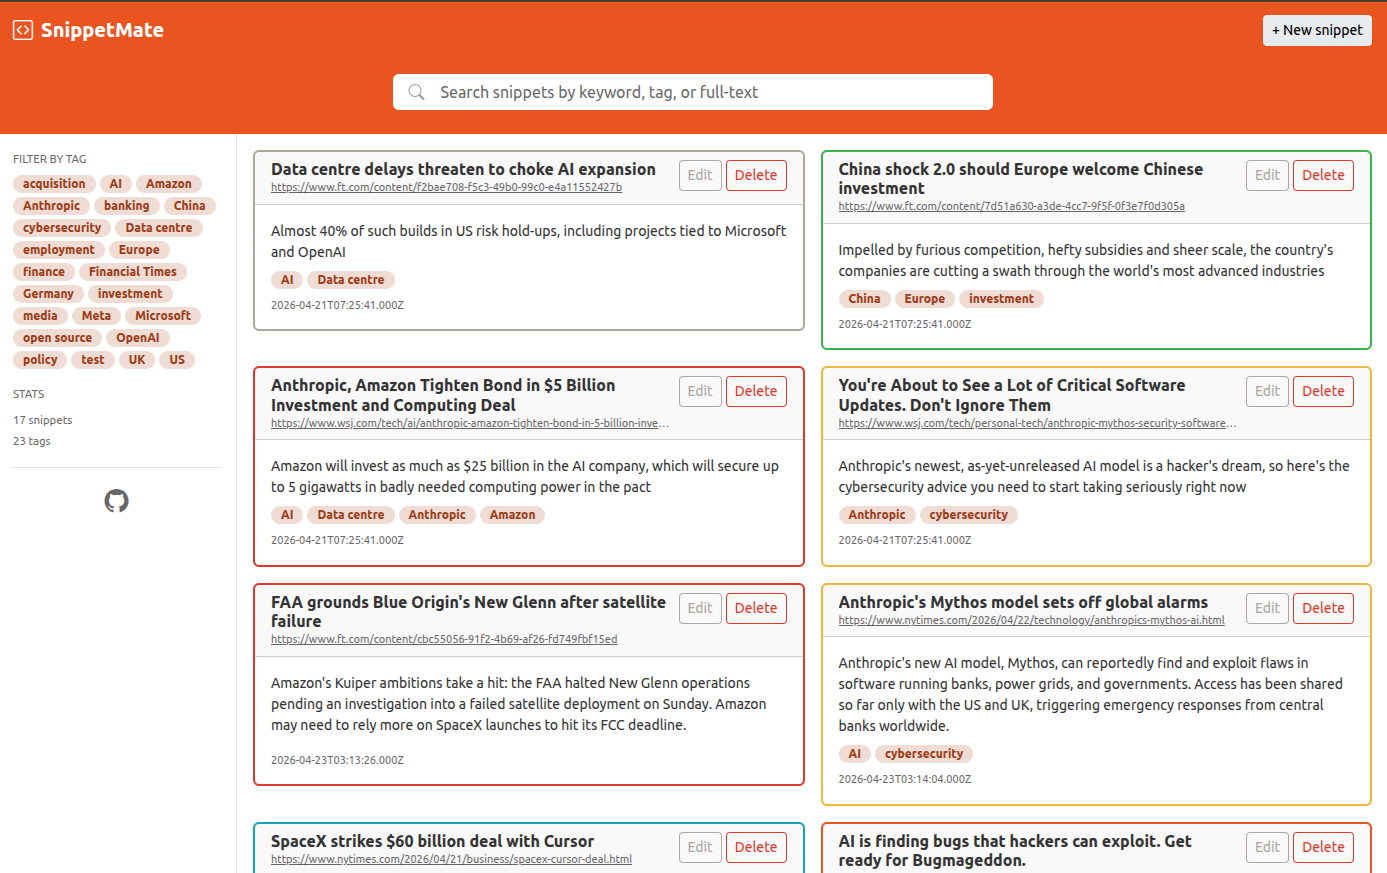
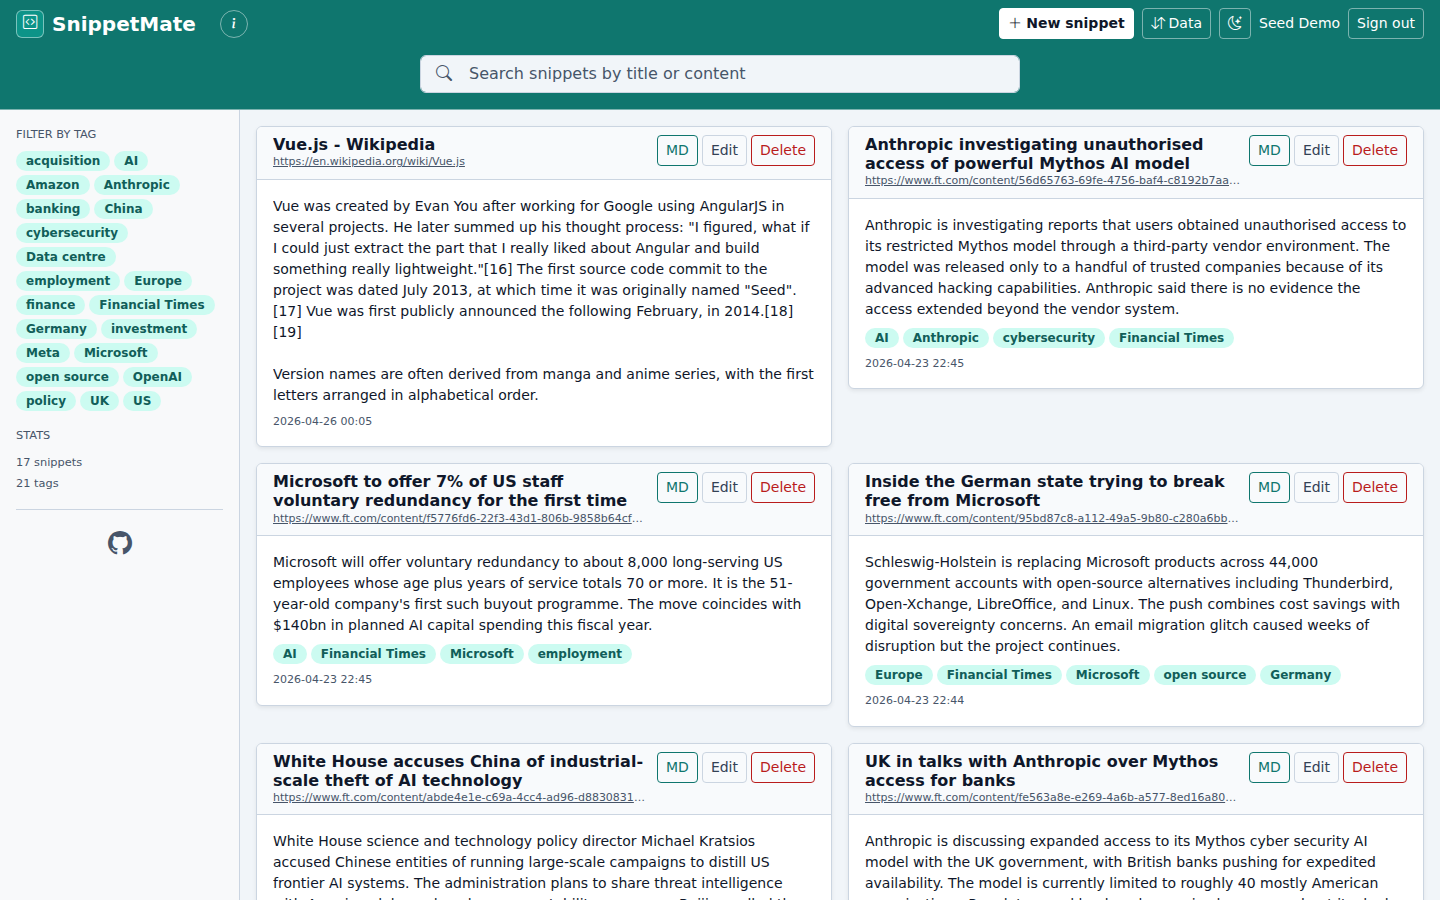
docs: add CHANGELOG.md, update README, AGENTS.md, and refresh screenshot

diff --git a/README.md b/README.md
@@ -12,9 +12,9 @@ Your "SnippetMate" lives in your browser while you're reading the news, browsing
 
 ## Tech Stack
 
-- **Frontend:** Vue 3 + Vite + Bootstrap 5 (with the Bootswatch "United" theme) + SweetAlert2 (pop-ups) + Firebase Web SDK (Google sign-in)
+- **Frontend:** Vue 3 + Vite + Bootstrap 5.3 (custom teal light/dark theme) + SweetAlert2 (pop-ups) + Firebase Web SDK (Google sign-in)
 - **Backend:** Node.js + Express, with `firebase-admin` verifying a Google ID token on every data request
-- **Database:** MySQL 8 (FULLTEXT index on title and content, a many-to-many snippet–tag schema, and per-user ownership)
+- **Database:** MySQL 8 (many-to-many snippet–tag schema and per-user ownership)
 
 No external **data** APIs are used. Firebase is used only for authentication (Google sign-in).
 
@@ -24,7 +24,7 @@ No external **data** APIs are used. Firebase is used only for authentication (Go
 
 These are the two required dynamic aspects (front-end JavaScript talking to the back-end):
 
-1. **CRUD with search and tag filtering** — Create, Read, Update and Delete snippets, with full-text search across the title and content, plus a tag-based sidebar filter.
+1. **CRUD with search and tag filtering** — Create, Read, Update and Delete snippets, with keyword search across title and content, plus a tag-based sidebar filter (and horizontal tag bar on mobile).
 2. **Server-side URL title fetching** — You paste a source URL, then (optionally) click *Fetch title*, and the back-end retrieves the page title and fills it into the form.
 
 ### Additional features
@@ -32,6 +32,7 @@ These are the two required dynamic aspects (front-end JavaScript talking to the 
 - **Google sign-in & multi-user isolation** — Firebase Authentication; every snippet and tag query is scoped to the signed-in user.
 - **Markdown export** — export a single snippet or the whole collection as Markdown.
 - **JSON import / export** *(new in v2.1.0)* — a canonical JSON round-trip for backup and restore, with duplicate-skipping and tag reconciliation on import.
+- **Teal light & dark mode** — follows `prefers-color-scheme` by default with a navbar theme toggle persisted in `localStorage`.
 
 ## Import / Export JSON format
 
@@ -65,10 +66,11 @@ Rules the importer enforces:
 ```
 SnippetMate/
 ├── backend/            Node.js + Express API
+│   ├── lib/            safe-fetch.js (SSRF guard), validate.js (input checks)
+│   ├── middleware/     auth.js — verifies the Firebase ID token, scopes by user
 │   ├── routes/         /api/health, /api/snippets (incl. /import + /export),
 │   │                   /api/tags, /api/fetch-title
-│   ├── middleware/     auth.js — verifies the Firebase ID token, scopes by user
-│   ├── test/           Integration tests using node:test + supertest
+│   ├── test/           Integration and unit tests (node:test + supertest)
 │   ├── db.js           MySQL connection pool (mysql2/promise)
 │   ├── firebase.js     Firebase Admin SDK init (loads the service-account key)
 │   ├── server.js       Express entry point
@@ -78,10 +80,12 @@ SnippetMate/
 │   └── seed.sql        Optional sample data, owned by a demo user
 └── frontend/           Vue 3 + Vite single-page app
     └── src/
-        ├── components/   NavBar, SearchBar, TagSidebar, SnippetList,
-        │                 SnippetCard, SnippetFormModal
-        ├── services/     api.js (axios wrapper; attaches the auth token)
-        ├── firebase.js   Firebase Web SDK init (reads VITE_FIREBASE_* env vars)
+        ├── assets/       theme.css (teal light/dark Bootstrap 5 tokens)
+        ├── components/   NavBar, AboutModal, SearchBar, TagSidebar,
+        │                 SnippetList, SnippetCard, SnippetFormModal
+        ├── composables/  useAuth.js (Firebase Auth state)
+        ├── services/     api.js (axios wrapper), firebase.js (Web SDK init)
+        ├── utils/        markdown.js, safety.js, swal.js, theme.js (+ tests)
         ├── App.vue
         └── main.js
 ```
@@ -207,11 +211,18 @@ cd backend
 npm test
 ```
 
+Frontend unit tests (`src/utils/*.test.js`) run with Node's built-in test runner:
+
+```bash
+cd frontend
+npm test
+```
+
 The API tests write to and delete from the MySQL database configured in `.env`, so they refuse to run unless `DB_NAME` ends in `_test`. Point `.env` (or the environment) at a separate test database first; never run them against the production database. The `fetch-title` tests need no database: `NODE_ENV=test node --test test/fetch-title.test.js`.
 
 ## Deployment
 
-The live instance runs at **[snippetmate.com](https://snippetmate.com)** on a Linux host: the built Vue SPA is served by nginx, the Express backend runs as a managed process behind an nginx reverse proxy, and MySQL runs locally. Cloudflare fronts TLS and DNS. Remember to add your production domain to **Firebase → Authentication → Settings → Authorized domains**, or Google sign-in is rejected with `auth/unauthorized-domain`.
+The live instance runs at **[www.snippetmate.com](https://www.snippetmate.com)** on a Linux host: the built Vue SPA is served by nginx, the Express backend runs as a managed process behind an nginx reverse proxy, and MySQL runs locally. Cloudflare fronts TLS and DNS. Remember to add your production domain to **Firebase → Authentication → Settings → Authorized domains**, or Google sign-in is rejected with `auth/unauthorized-domain`.
 
 ## Course Information
 

diff --git a/CHANGELOG.md b/CHANGELOG.md
@@ -1,0 +1,58 @@
+# Changelog
+
+All notable changes to SnippetMate are documented in this file.
+
+The format is based on [Keep a Changelog](https://keepachangelog.com/en/1.1.0/), and this project adheres to [Semantic Versioning](https://semver.org/spec/v2.0.0.html).
+
+## [2.2.0] - Unreleased
+
+### Added
+- Teal colourway matching sibling apps (`#0f766e` accent, `#0d9488` brand tile, slate neutrals) in `frontend/src/assets/theme.css`.
+- Light and dark mode following `prefers-color-scheme`, persisted in `localStorage` with a pre-paint inline script in `frontend/index.html` and a NavBar/sign-in theme toggle (`frontend/src/utils/theme.js` + unit tests).
+- Sibling-style signed-out hero screen with logo tile, feature summary, GitHub link, and version footer.
+- Responsive mobile tag filter strip (`< md`) and consolidated `Data` export/import dropdown menu in `NavBar`.
+- Explicit backend error banner with retry button on load failures, plus distinct empty vs zero-match filter messaging.
+- E2E build-mode auth seam (`vite build --mode e2e`) and CI check verifying production builds exclude it.
+- `CHANGELOG.md` with release history from v2.0.0 onward.
+
+### Changed
+- Dropped Bootswatch "United" (eliminating third-party Google Fonts requests and 56 WCAG AA contrast violations) in favour of plain Bootstrap 5.3 CSS + `theme.css`.
+- Replaced duplicate Bootstrap UMD JS bundle (`bootstrap.bundle.min.js`) with direct `bootstrap/js/dist/modal` imports and removed direct `@popperjs/core` dependency (~130 kB smaller JS bundle).
+- Replaced `nodemon` with Node's built-in `node --watch server.js` in `backend/package.json` (0 audit vulnerabilities across all deps).
+- Updated SweetAlert2 dialogs via shared `frontend/src/utils/swal.js` helper to match the teal accent and light/dark themes.
+- Replaced rainbow card borders with neutral 1 px card borders, rendered snippet content in keyboard-focusable `<pre tabindex="0">` blocks, made card and sidebar tags accessible `<button>` filters, and formatted timestamps cleanly.
+- Updated `frontend/public/favicon.svg` to the teal brand tile (`#0d9488`) and refreshed `docs/snippetmate_screenshot.png`.
+
+### Fixed
+- Replaced real LAN IP addresses and production port in `backend/test/fetch-title.test.js` with generic RFC1918 / localhost addresses.
+- Set `application/json` MIME type when downloading JSON exports (`frontend/src/utils/markdown.js`).
+- Added missing modal ARIA attributes, form labels, `modal.dispose()` cleanup, and `rel="noopener noreferrer"` on the sidebar GitHub link.
+- Updated drifted documentation in `README.md` and `AGENTS.md`.
+
+## [2.1.0] - 2026-06-26
+
+JSON snippet import and export.
+
+- GET /api/snippets/export — authoritative, uid-scoped JSON export (canonical round-trip format).
+- POST /api/snippets/import — validation, dedup skip, tag reconciliation, per-snippet transactions.
+- NavBar: Import + Export JSON, with post-import list/tag refresh.
+
+Closes the import/export loop from the README.
+
+## [2.0.0] - 2026-06-25
+
+## SnippetMate v2.0.0
+
+First multi-user release of SnippetMate — capture, tag, and search text & code snippets, now with authenticated accounts.
+
+### Highlights
+- **Google sign-in (Firebase Auth)** — snippets are now scoped to your account.
+- **About modal** — accessible "About" dialog in the navbar with project info and links.
+
+### Fixes
+- **Auth: firebase-admin v14 migration** — backend updated to the modular `firebase-admin/app` + `firebase-admin/auth` imports. The legacy `admin.apps` / `admin.auth()` namespace pattern was removed in v12+, which had been causing every authenticated request to fail with a silent 401. Authenticated routes now verify ID tokens correctly.
+- **Frontend auth header** — axios request interceptor now attaches the `Authorization` bearer token via `AxiosHeaders.set()`.
+- **UI polish** — refined the navbar info button and accessibility labels on the About modal.
+
+### Stack
+Vue 3 · Vite · Bootstrap 5 · Express · MySQL 8 · Firebase Auth

diff --git a/AGENTS.md b/AGENTS.md
@@ -16,7 +16,7 @@ Repo: github.com/hexawulf/SnippetMate
 
 ## Stack
 
-- Frontend: Vue 3 + Vite + Bootstrap 5 (Bootswatch "United") + SweetAlert2 + Firebase web SDK. ES modules.
+- Frontend: Vue 3 + Vite + Bootstrap 5.3 (plain CSS + teal light/dark colourway in `src/assets/theme.css`, replacing Bootswatch "United") + bootstrap-icons + SweetAlert2 + Firebase web SDK. ES modules.
 - Backend: Node.js + Express, CommonJS (`require`). Entry backend/server.js, routes in backend/routes/.
 - DB: MySQL 8 via a mysql2 promise pool (backend/db.js), config from process.env. No external data APIs.
 
@@ -31,7 +31,9 @@ Frontend:
 - `defineProps` in object form with type + required; array/object defaults use factory functions.
 - API calls go through services/api.js (one shared axios instance whose interceptor attaches the
   Firebase ID token), imported in components, not main.js.
-- Custom CSS classes use an `sm-` prefix; shared design-system styles live unscoped in App.vue.
+- Custom CSS classes use an `sm-` prefix; theme tokens (`[data-bs-theme=light|dark]`) live in `frontend/src/assets/theme.css`, and shared layout styles live unscoped in `App.vue`. Theme state follows `prefers-color-scheme` with a `NavBar` toggle (`frontend/src/utils/theme.js`) and an anti-flash inline script in `frontend/index.html`.
+- SweetAlert2 dialogs go through `frontend/src/utils/swal.js` so the teal accent and dark mode stay consistent.
+- Bootstrap JS is imported per component (`bootstrap/js/dist/modal`), not via the full bundle.
 
 Backend:
 - CommonJS throughout. One route file per resource under backend/routes/
@@ -90,12 +92,13 @@ Backend:
 
 ## How to run & verify
 
-- Backend: cd backend && npm install && npm start  -> http://localhost:3000
-- Frontend: cd frontend && npm install && npm run dev  -> http://localhost:5173
+- Backend: cd backend && npm install && npm start (or `npm run dev` with `node --watch`) -> http://127.0.0.1:3000
+- Frontend: cd frontend && npm install && npm run dev -> http://localhost:5173
   (requires frontend/.env.local with VITE_FIREBASE_* for sign-in to work).
-- Tests: cd backend && npm test  (node:test + supertest; integration tests hit the real DB and
-  cover CRUD, search/tag filter, JSON import/export, the 401 auth boundary, and a second-user
+- Backend tests: cd backend && npm test (node:test + supertest; integration tests hit the real DB and
+  cover CRUD, search/tag filter, JSON import/export, SSRF guard, the 401 auth boundary, and a second-user
   round-trip).
+- Frontend tests: cd frontend && npm test (node:test unit tests for `src/utils/*.test.js`).
 - Load DB: mysql -u <DB_USER> -p snippetmate < db/schema.sql  then  < db/seed.sql
 
 ## Non-negotiables
